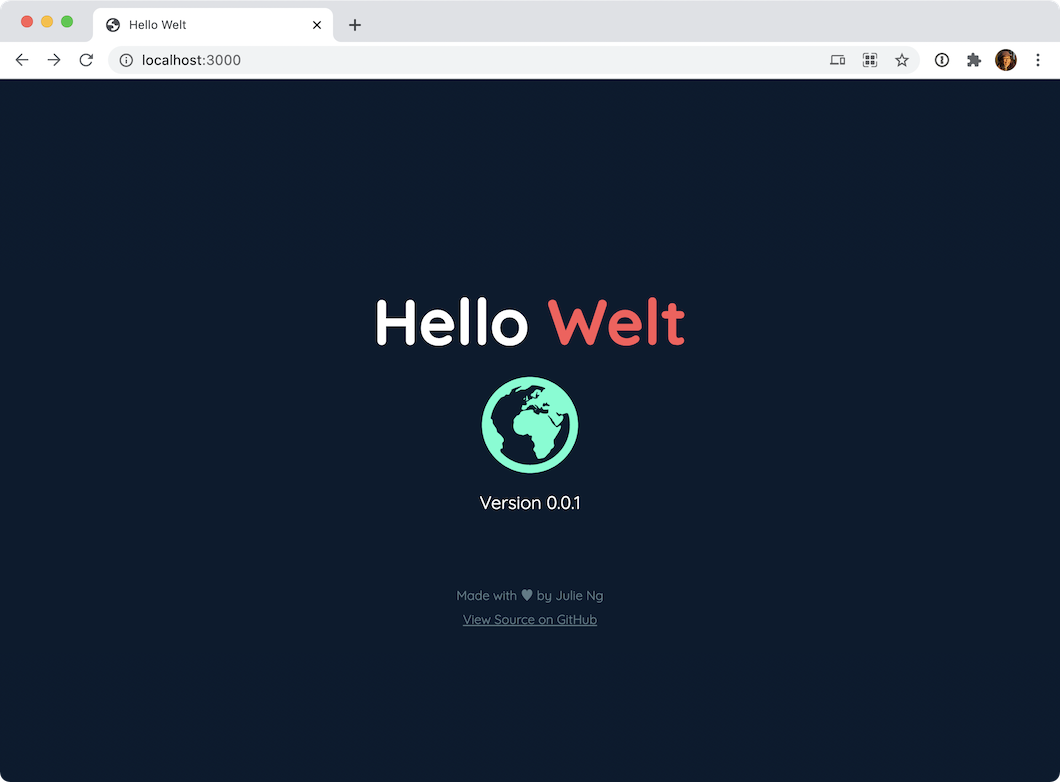
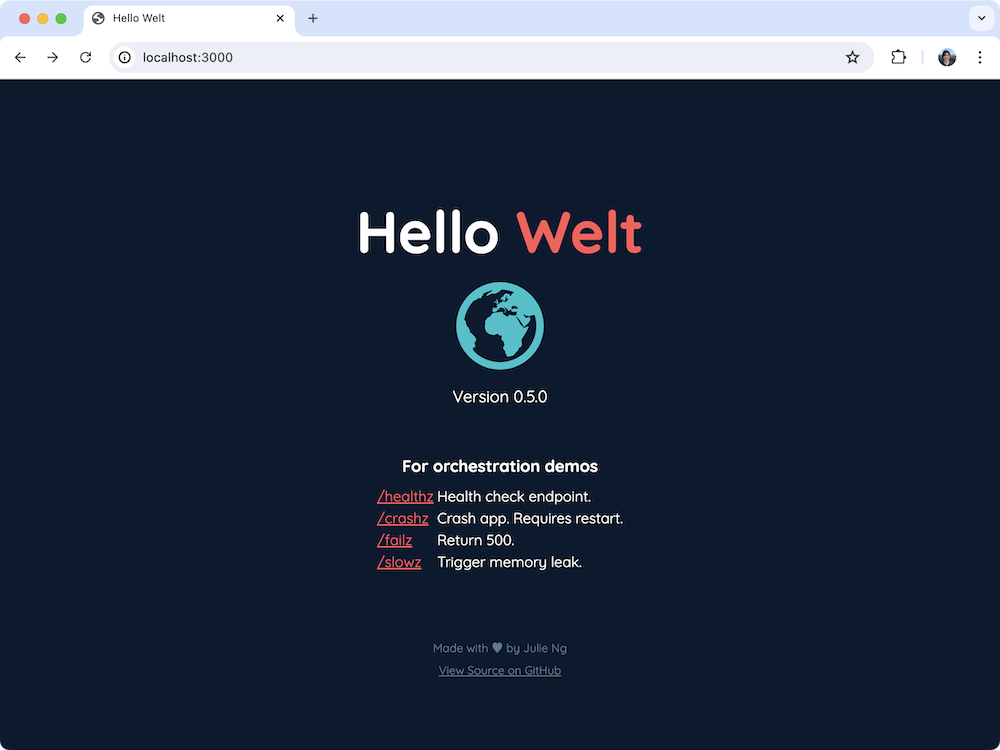
feat(ui): list demo routes on /

diff --git a/README.md b/README.md
@@ -7,7 +7,7 @@
 - Simple Hello World [Fastify app](https://www.fastify.io/) for demos. 
 - Source for [julieio/hello](https://hub.docker.com/repository/docker/julieio/hello) Docker Image.
 
-<img src="./preview.png" alt="Hello Welt Preview" width="500">
+<img src="./preview.png" alt="Hello Welt Preview" width="600">
 
 _Earth icon by iconmonstr.com_
 
